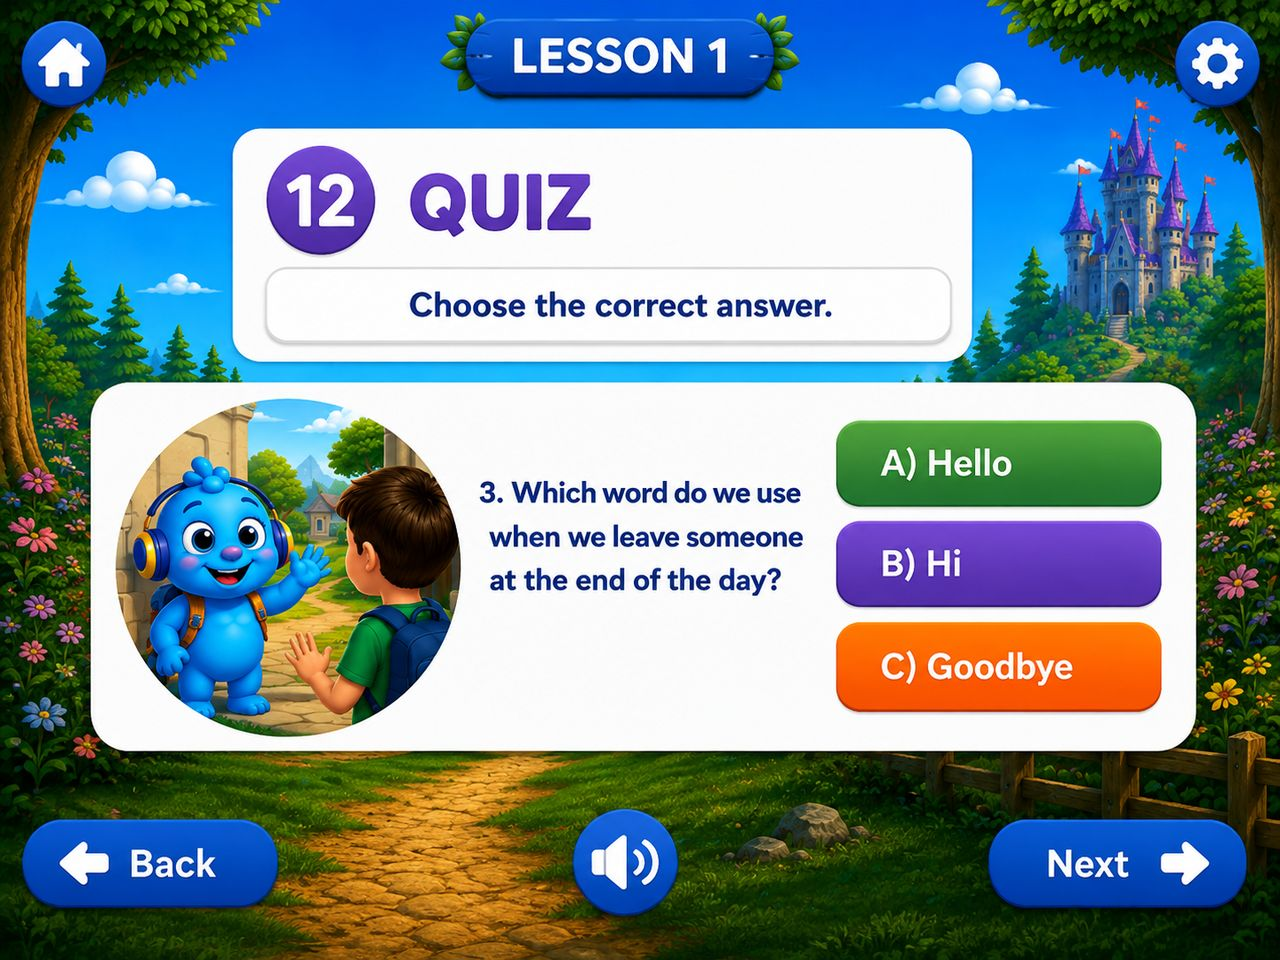
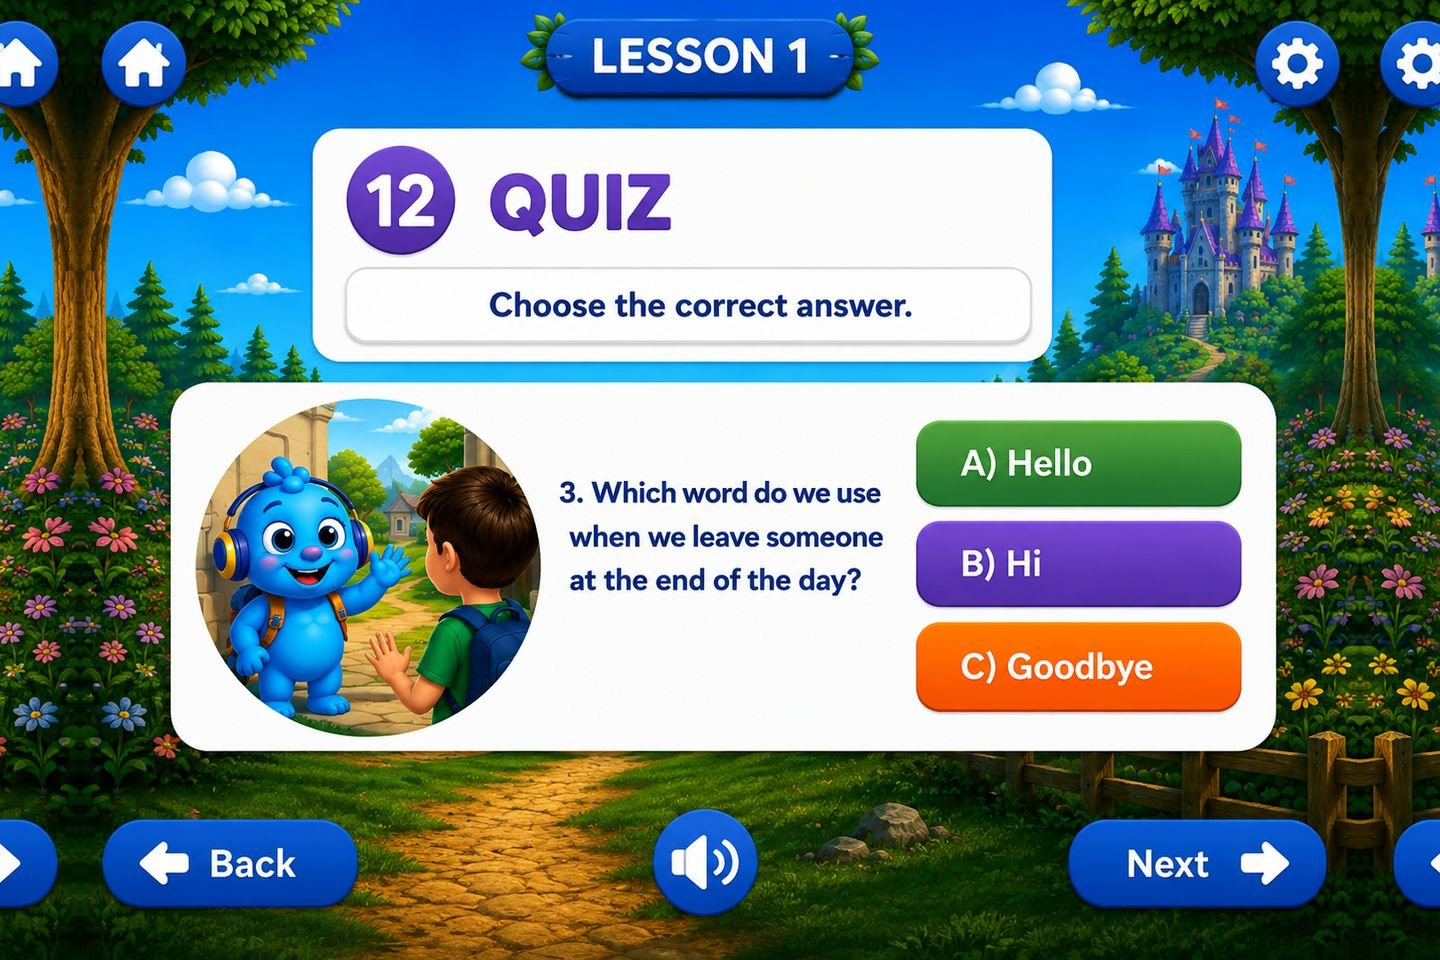
Fix quiz/unscramble hotspot alignment and add the real Great Job finale artwork
The quiz and unscramble Canva slides were exported at a 4:3 canvas while
every other Lesson 1 screen is 3:2, so the browser letterboxed them inside
the wider stage. Every hotspot on those six screens was measured against
the raw (unpadded) image, which put buttons visibly off from where the
image actually rendered.

- Pad quiz1-3 and unscramble1-3 to the same 3:2 canvas as the rest of the
  lesson (mirrored edge strips, original artwork untouched and centered)
  so they render at the same size as every other screen, and re-measure
  every button/pill/speaker hotspot precisely against the padded canvas.
- Fix the Let's Speak "Hi" card hotspot, which was ~7% short of the real
  card height and cut off the "/hai/" pronunciation line.
- Round .hot focus/ok/bad/sel outlines to a pill radius so the highlight
  ring never shows flat corners outside a rounded button.
- Replace the placeholder finale screen with the real "Great Job!" artwork
  from Drive and wire up its Home/Settings/Back/Finish/audio hotspots.

diff --git a/upfront-kids.html b/upfront-kids.html
@@ -106,13 +106,13 @@
     outline:none;
     -webkit-appearance:none;
   }
-  .hot:focus-visible{box-shadow:0 0 0 3px rgba(255,255,255,.85);border-radius:14px}
+  .hot:focus-visible{box-shadow:0 0 0 3px rgba(255,255,255,.85);border-radius:999px}
   .hot.pulse{animation:pulse .4s ease}
   @keyframes pulse{0%{transform:scale(1)}50%{transform:scale(1.06)}100%{transform:scale(1)}}
-  .hot.ok{box-shadow:0 0 0 3px #22c55e inset;border-radius:16px;background:rgba(34,197,94,.15)}
-  .hot.bad{animation:shake .4s ease;box-shadow:0 0 0 3px #ef4444 inset;border-radius:16px;background:rgba(239,68,68,.15)}
+  .hot.ok{box-shadow:0 0 0 3px #22c55e inset;border-radius:999px;background:rgba(34,197,94,.15)}
+  .hot.bad{animation:shake .4s ease;box-shadow:0 0 0 3px #ef4444 inset;border-radius:999px;background:rgba(239,68,68,.15)}
   @keyframes shake{0%,100%{transform:translateX(0)}25%{transform:translateX(-6px)}75%{transform:translateX(6px)}}
-  .hot.sel{box-shadow:0 0 0 4px #ffcc00 inset;border-radius:16px}
+  .hot.sel{box-shadow:0 0 0 4px #ffcc00 inset;border-radius:999px}
 
   /* memory cards */
   .mem-card{
@@ -320,8 +320,8 @@
     <button class="hot" style="left:82%;top:87%;width:16%;height:11%" onclick="showScreen('l1_5c')" aria-label="Next"></button>
     <button class="hot" style="left:45%;top:80.5%;width:9%;height:13%" onclick="speak('Hi')" aria-label="Play audio"></button>
 
-    <button class="hot" style="left:52%;top:36%;width:27%;height:29%" onclick="speak('Hi')" aria-label="Listen"></button>
-    <button class="hot" id="micBtn2" style="left:51%;top:75%;width:28%;height:10%" onclick="tapToSpeak(this,'hi')" aria-label="Tap to speak and repeat"></button>
+    <button class="hot" style="left:52.66%;top:36.81%;width:25.78%;height:35.87%" onclick="speak('Hi')" aria-label="Listen"></button>
+    <button class="hot" id="micBtn2" style="left:51.95%;top:76.55%;width:26.17%;height:10.79%" onclick="tapToSpeak(this,'hi')" aria-label="Tap to speak and repeat"></button>
   </div>
 
   <!-- ══ LESSON 1 · STEP 7 — LET'S SPEAK (Goodbye) ══ -->
@@ -356,76 +356,76 @@
 
   <!-- ══ LESSON 1 · STEP 10-12 — QUIZ (3 rounds) ══ -->
   <div class="screen" id="l1_7a" style="background-image:url('kids-assets/lesson1-step10-quiz1.jpg')">
-    <button class="hot" style="left:6%;top:1.5%;width:8%;height:11%" onclick="showScreen('map')" aria-label="Home"></button>
-    <button class="hot" style="left:86%;top:1.5%;width:8%;height:11%" onclick="openSettings()" aria-label="Settings"></button>
-    <button class="hot" style="left:7%;top:86%;width:17%;height:10%" onclick="showScreen('l1_6')" aria-label="Back"></button>
-    <button class="hot" style="left:74%;top:86%;width:19%;height:10%" onclick="showScreen('l1_7b')" aria-label="Next"></button>
-    <button class="hot" style="left:44.4%;top:83.8%;width:8.4%;height:12.2%" onclick="speak('Which word do we use when we say goodbye to someone?')" aria-label="Play audio"></button>
-    <button class="hot" style="left:62.65%;top:43.46%;width:23.15%;height:9.3%" onclick="quizAnswer(false,this)" aria-label="Option A Hello"></button>
-    <button class="hot" style="left:62.65%;top:54.51%;width:23.15%;height:9.39%" onclick="quizAnswer(false,this)" aria-label="Option B Hi"></button>
-    <button class="hot" style="left:62.65%;top:65.56%;width:23.15%;height:9.48%" onclick="quizAnswer(true,this)" aria-label="Option C Goodbye"></button>
+    <button class="hot" style="left:7.22%;top:2.6%;width:5.69%;height:8.65%" onclick="showScreen('map')" aria-label="Home"></button>
+    <button class="hot" style="left:87.08%;top:2.6%;width:5.69%;height:8.65%" onclick="openSettings()" aria-label="Settings"></button>
+    <button class="hot" style="left:7.64%;top:86.15%;width:16.39%;height:9.38%" onclick="showScreen('l1_6')" aria-label="Back"></button>
+    <button class="hot" style="left:74.1%;top:86.15%;width:17.36%;height:9.38%" onclick="showScreen('l1_7b')" aria-label="Next"></button>
+    <button class="hot" style="left:45.35%;top:84.69%;width:7.5%;height:11.56%" onclick="speak('Which word do we use when we say goodbye to someone?')" aria-label="Play audio"></button>
+    <button class="hot" style="left:62.64%;top:43.44%;width:23.12%;height:9.37%" onclick="quizAnswer(false,this)" aria-label="Option A Hello"></button>
+    <button class="hot" style="left:62.64%;top:54.48%;width:23.19%;height:9.38%" onclick="quizAnswer(false,this)" aria-label="Option B Hi"></button>
+    <button class="hot" style="left:62.57%;top:65.42%;width:23.26%;height:9.69%" onclick="quizAnswer(true,this)" aria-label="Option C Goodbye"></button>
   </div>
 
   <div class="screen" id="l1_7b" style="background-image:url('kids-assets/lesson1-step11-quiz2.jpg')">
-    <button class="hot" style="left:6%;top:1.5%;width:8%;height:11%" onclick="showScreen('map')" aria-label="Home"></button>
-    <button class="hot" style="left:86%;top:1.5%;width:8%;height:11%" onclick="openSettings()" aria-label="Settings"></button>
-    <button class="hot" style="left:7%;top:86%;width:17%;height:10%" onclick="showScreen('l1_7a')" aria-label="Back"></button>
-    <button class="hot" style="left:74%;top:86%;width:19%;height:10%" onclick="showScreen('l1_7c')" aria-label="Next"></button>
-    <button class="hot" style="left:44.65%;top:84.65%;width:8.1%;height:11.5%" onclick="speak('Which word do we use when we start a conversation with someone?')" aria-label="Play audio"></button>
-    <button class="hot" style="left:63.25%;top:44.25%;width:22.45%;height:9.02%" onclick="quizAnswer(true,this)" aria-label="Option A Hello"></button>
-    <button class="hot" style="left:63.25%;top:55.01%;width:22.45%;height:9.29%" onclick="quizAnswer(false,this)" aria-label="Option B Hi"></button>
-    <button class="hot" style="left:63.19%;top:66.15%;width:22.51%;height:9.66%" onclick="quizAnswer(false,this)" aria-label="Option C Goodbye"></button>
+    <button class="hot" style="left:7.17%;top:2.18%;width:5.68%;height:8.52%" onclick="showScreen('map')" aria-label="Home"></button>
+    <button class="hot" style="left:87.14%;top:2.18%;width:5.68%;height:8.52%" onclick="openSettings()" aria-label="Settings"></button>
+    <button class="hot" style="left:7.31%;top:86.38%;width:17.26%;height:9.36%" onclick="showScreen('l1_7a')" aria-label="Back"></button>
+    <button class="hot" style="left:74.67%;top:86.38%;width:17.81%;height:9.36%" onclick="showScreen('l1_7c')" aria-label="Next"></button>
+    <button class="hot" style="left:45.56%;top:85.55%;width:7.28%;height:10.91%" onclick="speak('Which word do we use when we start a conversation with someone?')" aria-label="Play audio"></button>
+    <button class="hot" style="left:63.24%;top:44.18%;width:22.45%;height:8.94%" onclick="quizAnswer(true,this)" aria-label="Option A Hello"></button>
+    <button class="hot" style="left:63.24%;top:54.99%;width:22.45%;height:9.36%" onclick="quizAnswer(false,this)" aria-label="Option B Hi"></button>
+    <button class="hot" style="left:63.17%;top:66.01%;width:22.59%;height:9.77%" onclick="quizAnswer(false,this)" aria-label="Option C Goodbye"></button>
   </div>
 
   <div class="screen" id="l1_7c" style="background-image:url('kids-assets/lesson1-step12-quiz3.jpg')">
-    <button class="hot" style="left:6%;top:1.5%;width:8%;height:11%" onclick="showScreen('map')" aria-label="Home"></button>
-    <button class="hot" style="left:86%;top:1.5%;width:8%;height:11%" onclick="openSettings()" aria-label="Settings"></button>
-    <button class="hot" style="left:7%;top:86%;width:17%;height:10%" onclick="showScreen('l1_7b')" aria-label="Back"></button>
-    <button class="hot" style="left:74%;top:86%;width:19%;height:10%" onclick="showScreen('l1_7d')" aria-label="Next"></button>
-    <button class="hot" style="left:44.4%;top:83.25%;width:8.12%;height:11.87%" onclick="speak('Which word do we use when we leave someone at the end of the day?')" aria-label="Play audio"></button>
-    <button class="hot" style="left:63.63%;top:43.74%;width:22.53%;height:8.93%" onclick="quizAnswer(false,this)" aria-label="Option A Hello"></button>
-    <button class="hot" style="left:63.63%;top:54.24%;width:22.53%;height:8.93%" onclick="quizAnswer(false,this)" aria-label="Option B Hi"></button>
-    <button class="hot" style="left:63.63%;top:64.73%;width:22.53%;height:9.39%" onclick="quizAnswer(true,this)" aria-label="Option C Goodbye"></button>
+    <button class="hot" style="left:7.01%;top:2.19%;width:5.83%;height:8.85%" onclick="showScreen('map')" aria-label="Home"></button>
+    <button class="hot" style="left:87.15%;top:2.19%;width:5.83%;height:8.85%" onclick="openSettings()" aria-label="Settings"></button>
+    <button class="hot" style="left:7.08%;top:85.31%;width:17.71%;height:9.17%" onclick="showScreen('l1_7b')" aria-label="Back"></button>
+    <button class="hot" style="left:74.17%;top:85.31%;width:17.92%;height:9.17%" onclick="showScreen('l1_7d')" aria-label="Next"></button>
+    <button class="hot" style="left:45.28%;top:84.27%;width:7.29%;height:10.94%" onclick="speak('Which word do we use when we leave someone at the end of the day?')" aria-label="Play audio"></button>
+    <button class="hot" style="left:63.61%;top:43.75%;width:22.57%;height:8.85%" onclick="quizAnswer(false,this)" aria-label="Option A Hello"></button>
+    <button class="hot" style="left:63.61%;top:54.17%;width:22.57%;height:9.06%" onclick="quizAnswer(false,this)" aria-label="Option B Hi"></button>
+    <button class="hot" style="left:63.54%;top:64.69%;width:22.64%;height:9.48%" onclick="quizAnswer(true,this)" aria-label="Option C Goodbye"></button>
   </div>
 
   <!-- ══ LESSON 1 · STEP 13-15 — UNSCRAMBLE (3 rounds) ══ -->
   <div class="screen" id="l1_7d" style="background-image:url('kids-assets/lesson1-step13-unscramble1.jpg')">
-    <div class="unscr-sentence" id="l1_7d_slots" style="left:23.9%;top:31%;width:50%;height:16%"></div>
-    <div class="unscr-bank" id="l1_7d_bank" style="left:23.9%;top:50%;width:50%;height:16%"></div>
-    <button class="hot" style="left:6%;top:1.5%;width:8%;height:11%" onclick="showScreen('map')" aria-label="Home"></button>
-    <button class="hot" style="left:86%;top:1.5%;width:8%;height:11%" onclick="openSettings()" aria-label="Settings"></button>
-    <button class="hot" style="left:7%;top:86%;width:17%;height:10%" onclick="showScreen('l1_7c')" aria-label="Back"></button>
-    <button class="hot" style="left:74%;top:86%;width:19%;height:10%" onclick="showScreen('l1_7e')" aria-label="Next"></button>
-    <button class="hot" style="left:45.13%;top:71.47%;width:7.2%;height:9.93%" onclick="speak('Put the words in order. Hello Buddy!')" aria-label="Play audio"></button>
+    <div class="unscr-sentence" id="l1_7d_slots" style="left:23.82%;top:30.73%;width:50.49%;height:17.19%"></div>
+    <div class="unscr-bank" id="l1_7d_bank" style="left:23.82%;top:49.48%;width:50.49%;height:17.19%"></div>
+    <button class="hot" style="left:7.01%;top:2.19%;width:5.83%;height:9.79%" onclick="showScreen('map')" aria-label="Home"></button>
+    <button class="hot" style="left:87.15%;top:2.19%;width:5.83%;height:9.79%" onclick="openSettings()" aria-label="Settings"></button>
+    <button class="hot" style="left:7.01%;top:86.88%;width:16.74%;height:8.75%" onclick="showScreen('l1_7c')" aria-label="Back"></button>
+    <button class="hot" style="left:75%;top:86.88%;width:17.85%;height:8.85%" onclick="showScreen('l1_7e')" aria-label="Next"></button>
+    <button class="hot" style="left:46.04%;top:72.5%;width:6.39%;height:9.48%" onclick="speak('Put the words in order. Hello Buddy!')" aria-label="Play audio"></button>
   </div>
 
   <div class="screen" id="l1_7e" style="background-image:url('kids-assets/lesson1-step14-unscramble2.jpg')">
-    <div class="unscr-sentence" id="l1_7e_slots" style="left:24.2%;top:31%;width:49.5%;height:16%"></div>
-    <div class="unscr-bank" id="l1_7e_bank" style="left:24.2%;top:50%;width:49.5%;height:16%"></div>
-    <button class="hot" style="left:6%;top:1.5%;width:8%;height:11%" onclick="showScreen('map')" aria-label="Home"></button>
-    <button class="hot" style="left:86%;top:1.5%;width:8%;height:11%" onclick="openSettings()" aria-label="Settings"></button>
-    <button class="hot" style="left:7%;top:86%;width:17%;height:10%" onclick="showScreen('l1_7d')" aria-label="Back"></button>
-    <button class="hot" style="left:74%;top:86%;width:19%;height:10%" onclick="showScreen('l1_7f')" aria-label="Next"></button>
-    <button class="hot" style="left:45.26%;top:71.19%;width:7.32%;height:10.02%" onclick="speak('Put the words in order. Hi Mia!')" aria-label="Play audio"></button>
+    <div class="unscr-sentence" id="l1_7e_slots" style="left:23.82%;top:30.73%;width:50.49%;height:17.19%"></div>
+    <div class="unscr-bank" id="l1_7e_bank" style="left:23.82%;top:49.48%;width:50.49%;height:17.19%"></div>
+    <button class="hot" style="left:7.15%;top:2.29%;width:5.83%;height:9.38%" onclick="showScreen('map')" aria-label="Home"></button>
+    <button class="hot" style="left:87.01%;top:2.29%;width:5.83%;height:9.38%" onclick="openSettings()" aria-label="Settings"></button>
+    <button class="hot" style="left:7.29%;top:86.67%;width:16.67%;height:8.85%" onclick="showScreen('l1_7d')" aria-label="Back"></button>
+    <button class="hot" style="left:74.93%;top:86.67%;width:17.78%;height:8.85%" onclick="showScreen('l1_7f')" aria-label="Next"></button>
+    <button class="hot" style="left:46.18%;top:72.19%;width:6.46%;height:9.69%" onclick="speak('Put the words in order. Hi Mia!')" aria-label="Play audio"></button>
   </div>
 
   <div class="screen" id="l1_7f" style="background-image:url('kids-assets/lesson1-step15-unscramble3.jpg')">
-    <div class="unscr-sentence" id="l1_7f_slots" style="left:24.2%;top:31%;width:49.8%;height:16%"></div>
-    <div class="unscr-bank" id="l1_7f_bank" style="left:24.2%;top:50%;width:49.8%;height:16%"></div>
-    <button class="hot" style="left:6%;top:1.5%;width:8%;height:11%" onclick="showScreen('map')" aria-label="Home"></button>
-    <button class="hot" style="left:86%;top:1.5%;width:8%;height:11%" onclick="openSettings()" aria-label="Settings"></button>
-    <button class="hot" style="left:7%;top:86%;width:17%;height:10%" onclick="showScreen('l1_7e')" aria-label="Back"></button>
-    <button class="hot" style="left:74%;top:86%;width:19%;height:10%" onclick="showScreen('l1_8')" aria-label="Next"></button>
-    <button class="hot" style="left:45.32%;top:71.38%;width:7.32%;height:10.12%" onclick="speak('Put the words in order. Goodbye Luna!')" aria-label="Play audio"></button>
+    <div class="unscr-sentence" id="l1_7f_slots" style="left:23.82%;top:30.73%;width:50.49%;height:17.19%"></div>
+    <div class="unscr-bank" id="l1_7f_bank" style="left:23.82%;top:49.48%;width:50.49%;height:17.19%"></div>
+    <button class="hot" style="left:7.15%;top:2.29%;width:5.83%;height:8.65%" onclick="showScreen('map')" aria-label="Home"></button>
+    <button class="hot" style="left:87.01%;top:2.29%;width:5.83%;height:8.65%" onclick="openSettings()" aria-label="Settings"></button>
+    <button class="hot" style="left:7.22%;top:86.67%;width:16.88%;height:8.85%" onclick="showScreen('l1_7e')" aria-label="Back"></button>
+    <button class="hot" style="left:74.86%;top:86.67%;width:17.85%;height:8.85%" onclick="showScreen('l1_8')" aria-label="Next"></button>
+    <button class="hot" style="left:46.25%;top:72.4%;width:6.39%;height:9.58%" onclick="speak('Put the words in order. Goodbye Luna!')" aria-label="Play audio"></button>
   </div>
 
-  <!-- ══ LESSON 1 · FINALE — COMPLETE (pending updated artwork) ══ -->
-  <div class="screen" id="l1_8" style="background-image:url('kids-assets/lesson1-step8-complete.jpg')">
-    <button class="hot" style="left:1%;top:1.5%;width:8%;height:11.5%" onclick="showScreen('map')" aria-label="Home"></button>
-    <button class="hot" style="left:91%;top:1.5%;width:8%;height:11.5%" onclick="openSettings()" aria-label="Settings"></button>
-    <button class="hot" style="left:2%;top:87%;width:16%;height:11%" onclick="showScreen('l1_7f')" aria-label="Back"></button>
-    <button class="hot" style="left:82%;top:87%;width:16%;height:11%" onclick="finishLesson()" aria-label="Next"></button>
-    <button class="hot" style="left:45%;top:80.5%;width:9%;height:13%" onclick="speak('You completed Lesson 1! Keep practicing and keep learning!')" aria-label="Play audio"></button>
+  <!-- ══ LESSON 1 · FINALE — GREAT JOB! ══ -->
+  <div class="screen" id="l1_8" style="background-image:url('kids-assets/lesson1-step16-complete.jpg')">
+    <button class="hot" style="left:6.88%;top:1.98%;width:5.9%;height:8.96%" onclick="showScreen('map')" aria-label="Home"></button>
+    <button class="hot" style="left:87.22%;top:1.98%;width:5.9%;height:8.96%" onclick="openSettings()" aria-label="Settings"></button>
+    <button class="hot" style="left:6.88%;top:87.6%;width:15.07%;height:8.54%" onclick="showScreen('l1_7f')" aria-label="Back"></button>
+    <button class="hot" style="left:74.93%;top:87.6%;width:17.36%;height:8.54%" onclick="finishLesson()" aria-label="Finish"></button>
+    <button class="hot" style="left:46.81%;top:86.98%;width:6.32%;height:9.58%" onclick="speak('You completed Lesson 1! Keep practicing and keep learning!')" aria-label="Play audio"></button>
   </div>
 
   <!-- ══ TOAST ══ -->
